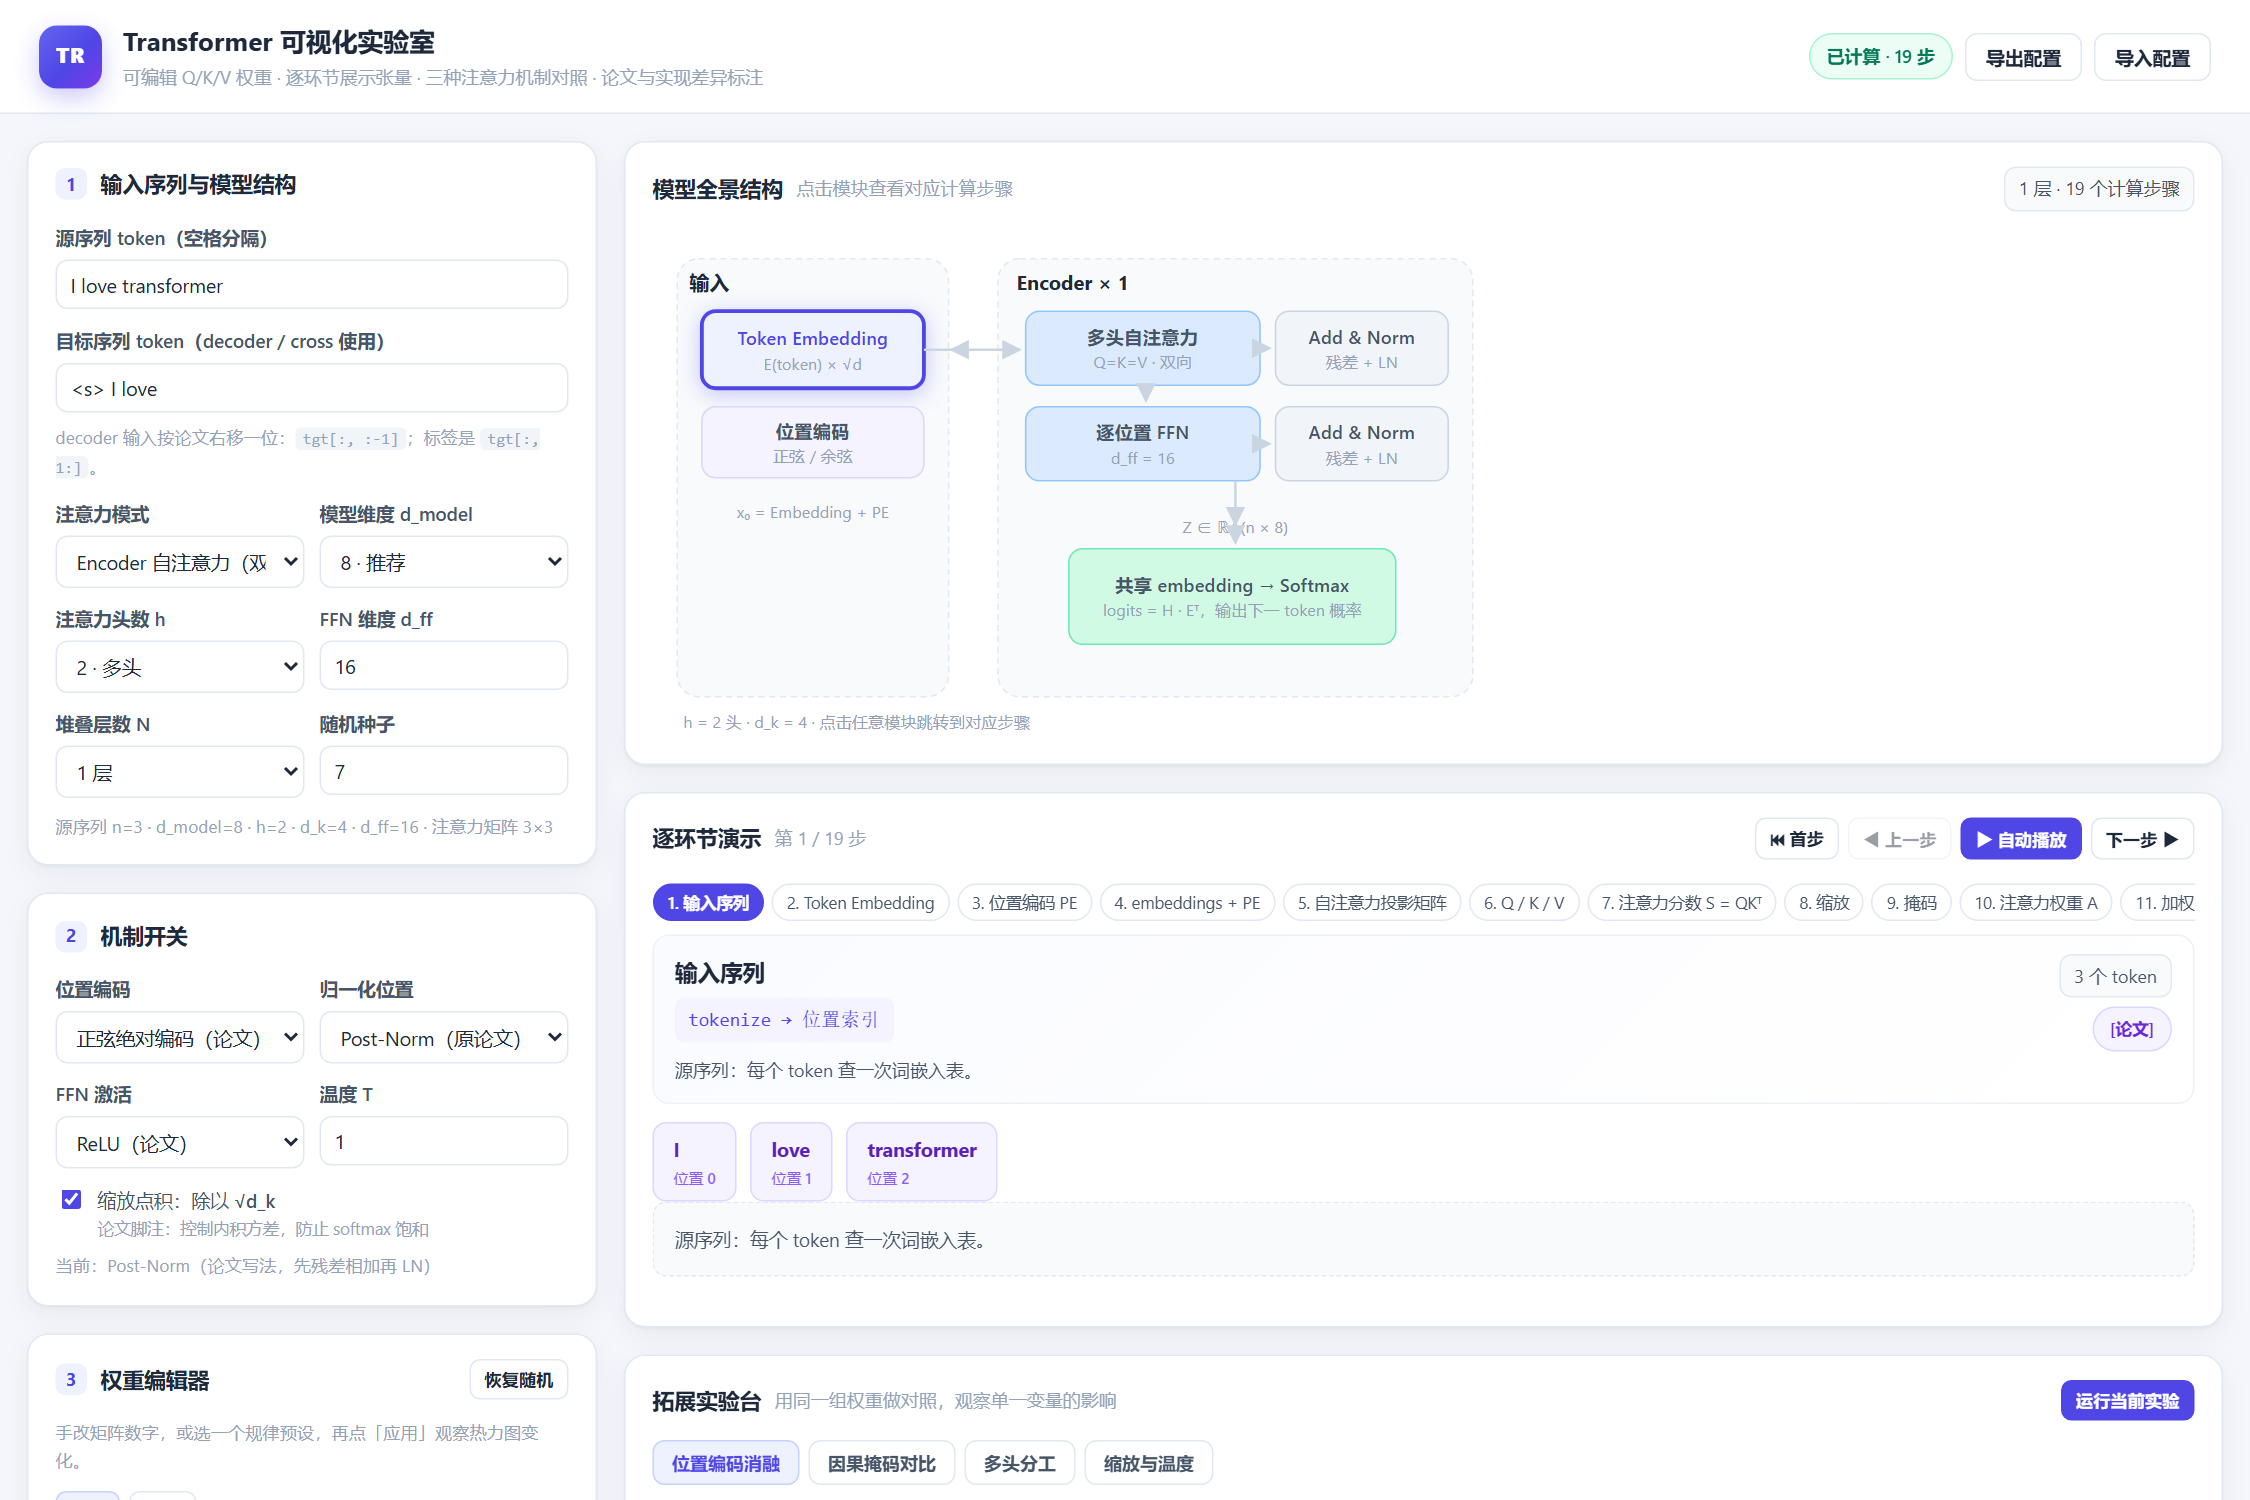
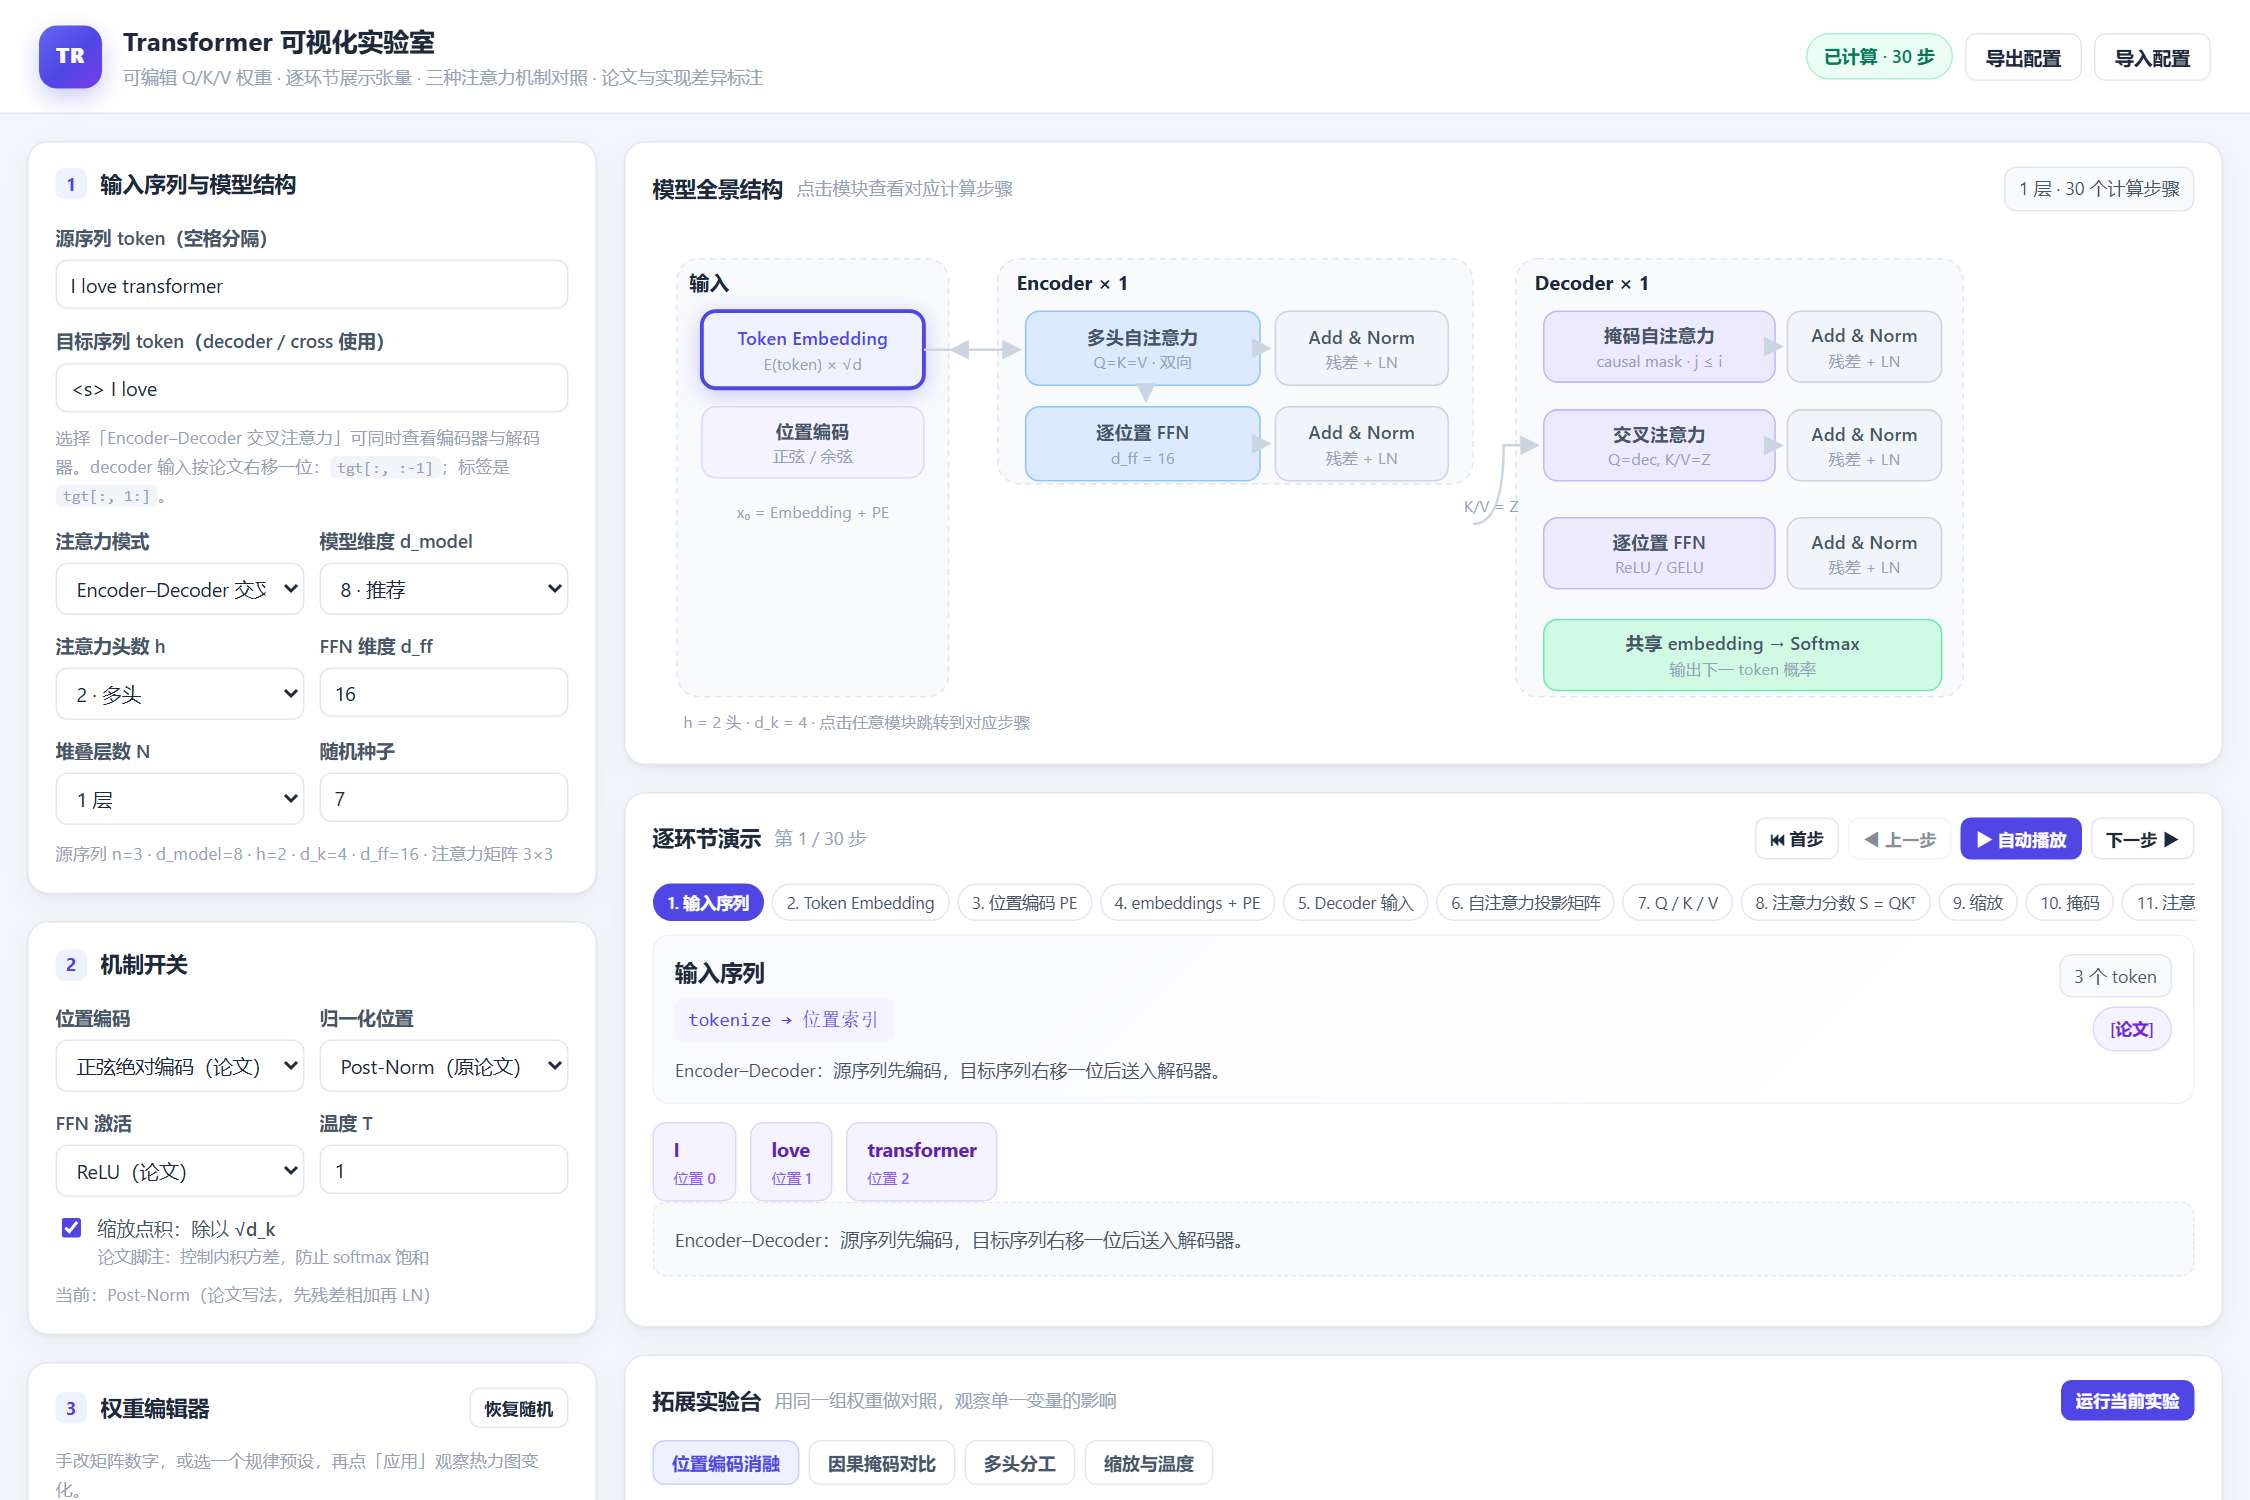
feat: open lab with full encoder-decoder view

diff --git a/index.html b/index.html
@@ -43,7 +43,7 @@
           <select id="mode">
             <option value="encoder">Encoder 自注意力（双向）</option>
             <option value="decoder">Decoder 自注意力（因果掩码）</option>
-            <option value="cross">Encoder–Decoder 交叉注意力（编码器 + 解码器）</option>
+            <option value="cross" selected>Encoder–Decoder 交叉注意力（编码器 + 解码器）</option>
           </select>
         </label>
         <label>模型维度 d_model

diff --git a/README.md b/README.md
@@ -31,9 +31,9 @@ npm test
 
 以下截图均由真实浏览器运行本页面后拍摄，未做后期修饰。
 
-默认是 Encoder 自注意力模式；若要同时查看**编码器 + 解码器**，请在前台「注意力模式」中选择 **Encoder–Decoder 交叉注意力（cross）**，对应全景见下表首图。
+默认打开即为 **Encoder–Decoder 交叉注意力（cross）** 模式，全景图同时呈现编码器与解码器；在「注意力模式」中也可切换为仅 Encoder 或仅 Decoder。
 
-| 完整编码器—解码器（cross 模式） | 编码器自注意力（默认模式） |
+| 完整编码器—解码器（cross 模式，默认） | 编码器自注意力模式（可切换） |
 | --- | --- |
 | ![完整编码器解码器全景](docs/assets/07-encoder-decoder.png) | ![全景结构](docs/assets/02-panorama.png) |
 
@@ -60,7 +60,7 @@ npm test
 
 ## 看得到什么
 
-- **全景结构图**：选择 cross 模式可同时看到 Encoder 与 Decoder 两栈、残差与归一化、交叉注意力的 K/V 来源；点击任一模块跳到对应计算步骤。
+- **全景结构图**：默认即可同时看到 Encoder 与 Decoder 两栈、残差与归一化、交叉注意力的 K/V 来源；也可切换为单栈模式。点击任一模块跳到对应计算步骤。
 - **逐环节演示**：从 tokenize、embedding×√d、位置编码、QKV 投影、`QKᵀ`、缩放、掩码、softmax、加权求和、多头拼接、`Wᴼ`、Add&Norm、FFN，到共享 embedding 的输出概率，共 19–30 个步骤，可单步或自动播放。
 - **张量数值**：每步显示完整矩阵、张量形状、公式、来源标注（`[论文]` / `[实现]` / `[解读]`）和一句解释。
 - **注意力热力图**：行是 Query 位置、列是 Key 位置，悬停查看具体权重；分数矩阵用发散色，注意力权重用单色深浅。

diff --git a/CHANGELOG.md b/CHANGELOG.md
@@ -1,5 +1,10 @@
 # 更新日志
 
+## 1.0.2（2026-11-17）
+
+- 页面默认视图改为完整的 Encoder–Decoder（cross）结构，打开即可同时看到编码器与解码器；仍可切换为仅 Encoder 或仅 Decoder。
+- README 说明与首屏截图同步更新。
+
 ## 1.0.1（2026-11-17）
 
 - 新增完整 Encoder–Decoder（cross 模式）全景截图，README 首位展示，并说明三种注意力模式的区别。
